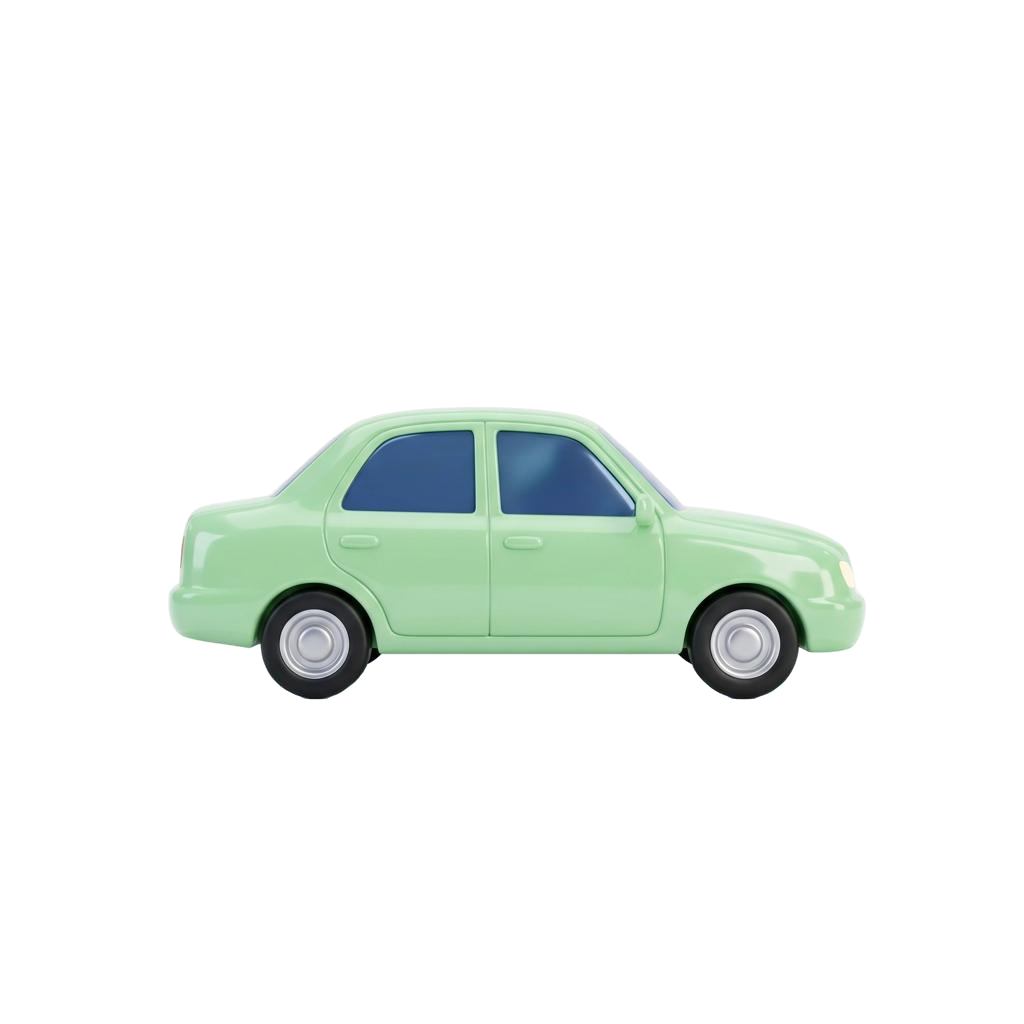
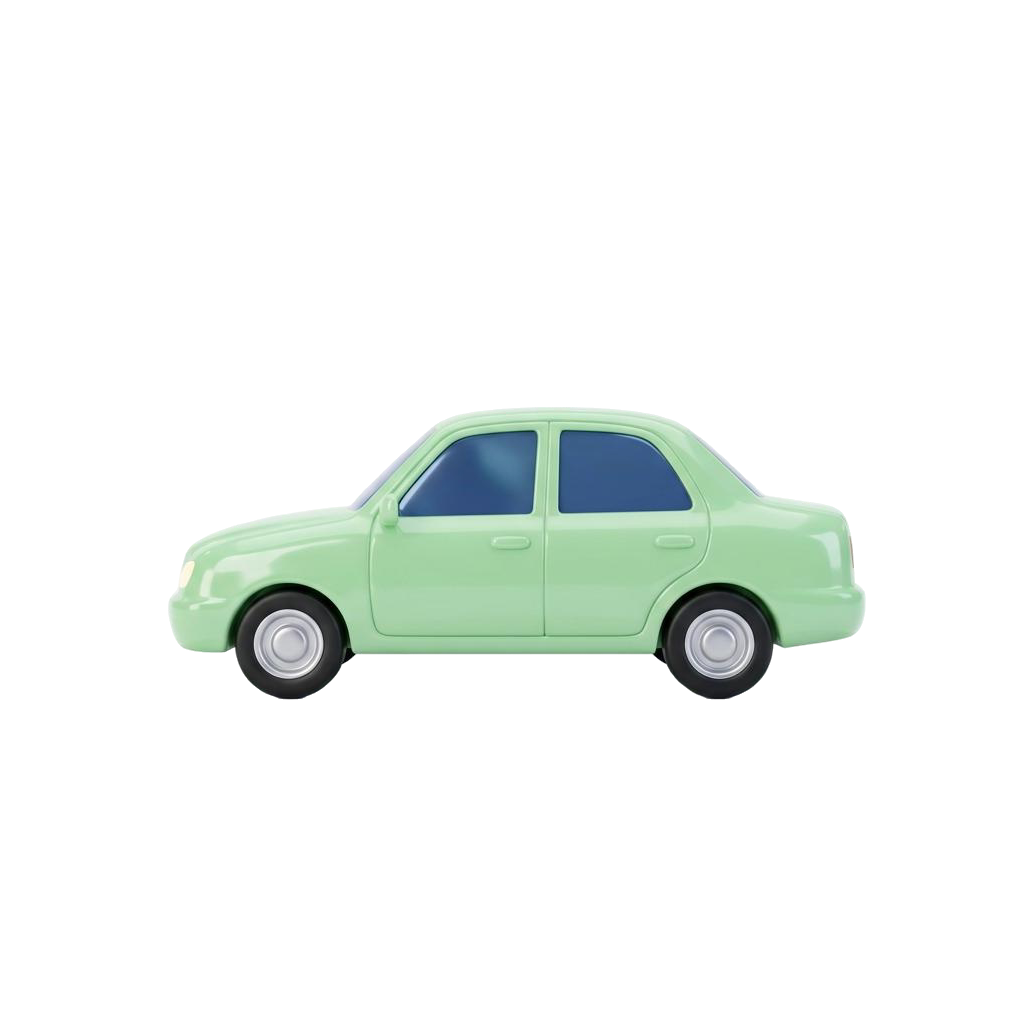
images change for first car and ev and appreciated page changes

Changed region(s): [[0.1562, 0.375, 0.8438, 0.6875]]

diff --git a/app/appreciated/page.tsx b/app/appreciated/page.tsx
@@ -1,5 +1,3 @@
-import AppreciatedForm from './AppreciatedForm';
-
 export const metadata = {
   title: 'We Appreciate Your Enquiry | LendaLink',
   description: 'Thank you for your enquiry with LendaLink Finance.',
@@ -35,65 +33,7 @@ export default function AppreciatedPage() {
             </p>
           </div>
 
-          {/* Info box */}
-          <div className="bg-emerald-50 border border-emerald-100 rounded-xl px-5 py-4 mb-6">
-            <p className="text-sm font-semibold text-emerald-800 mb-2">This may change in the future if:</p>
-            <ul className="space-y-1.5">
-              {[
-                'Your employment situation changes',
-                'Your monthly income grows above $3,000',
-                'You become a permanent resident or citizen',
-                'Your credit defaults are resolved or paid off',
-              ].map(item => (
-                <li key={item} className="flex items-start gap-2 text-sm text-emerald-700">
-                  <span className="text-emerald-400 mt-0.5 shrink-0">✓</span>
-                  {item}
-                </li>
-              ))}
-            </ul>
-          </div>
-
-          {/* Alternative options */}
-          <p className="text-sm font-semibold text-gray-700 mb-3">In the meantime, you may want to explore:</p>
-          <div className="grid grid-cols-1 sm:grid-cols-3 gap-3 mb-8">
-            {[
-              { icon: '🐷', title: 'Build Your Savings', desc: 'A savings plan can strengthen your future application' },
-              { icon: '📈', title: 'Improve Your Credit', desc: 'Free credit report at creditsavvy.com.au' },
-              { icon: '🙋', title: 'Speak to a Counsellor', desc: 'Free financial counselling at moneysmart.gov.au' },
-            ].map(card => (
-              <div key={card.title} className="bg-gray-50 rounded-xl p-4 text-center">
-                <span className="text-2xl block mb-2">{card.icon}</span>
-                <p className="text-xs font-bold text-gray-800 mb-1">{card.title}</p>
-                <p className="text-[11px] text-gray-500 leading-snug">{card.desc}</p>
-              </div>
-            ))}
-          </div>
-
-          {/* Leave details form */}
-          <AppreciatedForm />
-
-          {/* Contact */}
-          <div className="text-center mt-6 mb-2">
-            <p className="text-sm text-gray-500 mb-3">Have questions? Our team is happy to help.</p>
-            <div className="flex flex-col sm:flex-row gap-3 justify-center">
-              <a href="tel:[phone redacted]"
-                className="inline-flex items-center justify-center gap-2 text-sm font-semibold text-emerald-600 hover:text-emerald-700 transition-colors">
-                <span>📞</span> (02) 5118 9201
-              </a>
-              <a href="mailto:[email redacted]"
-                className="inline-flex items-center justify-center gap-2 text-sm font-semibold text-emerald-600 hover:text-emerald-700 transition-colors">
-                <span>✉️</span> [email redacted]
-              </a>
-            </div>
-          </div>
-
-          {/* Back button */}
-          <a
-            href="https://lendalink.com.au"
-            className="flex items-center justify-center w-full rounded-xl border border-gray-200 text-gray-500 font-semibold text-sm py-3 mt-4 hover:bg-gray-50 transition-colors"
-          >
-            Back to Home
-          </a>
+        
         </div>
       </div>
 

diff --git a/app/api/submit-apply/route.ts b/app/api/submit-apply/route.ts
@@ -4,7 +4,12 @@ import { supabase } from '@/lib/supabase';
 export async function POST(req: NextRequest) {
   const body = await req.json();
 
-  const { error } = await supabase.from('apply_submissions').insert({
+  const ip =
+    req.headers.get('x-forwarded-for')?.split(',')[0]?.trim() ??
+    req.headers.get('x-real-ip') ??
+    'unknown';
+
+  const row = {
     vehicle_type:      body.vehicleType,
     vehicle_condition: body.vehicleCondition,
     purchase_price:    body.purchasePrice,
@@ -14,16 +19,43 @@ export async function POST(req: NextRequest) {
     annual_income:     body.annualIncome,
     residency:         body.residency,
     credit_history:    body.creditHistory,
+    has_defaults:      body.hasDefaults,
+    in_payment_plan:   body.inPaymentPlan,
     state:             body.state,
     full_name:         body.fullName,
     mobile:            body.mobile,
     email:             body.email,
-    is_low_quality:    body.isLowQualityLead,
-  });
+    ip,
+  };
 
-  if (error) {
-    console.error('apply_submissions insert error:', error.message);
+  const webhookPayload = {
+    ...row,
+    submitted_at: new Date().toISOString(),
+    source: 'car-loan-calculator',
+  };
+
+  // Run Supabase insert and webhook in parallel
+  const [dbResult, webhookResult] = await Promise.allSettled([
+    supabase.from('apply_submissions').insert(row),
+    process.env.WEBHOOK_URL
+      ? fetch(process.env.WEBHOOK_URL, {
+          method: 'POST',
+          headers: { 'Content-Type': 'application/json' },
+          body: JSON.stringify(webhookPayload),
+        })
+      : Promise.resolve(null),
+  ]);
+
+  if (dbResult.status === 'rejected' || (dbResult.status === 'fulfilled' && dbResult.value.error)) {
+    const msg = dbResult.status === 'rejected'
+      ? dbResult.reason
+      : dbResult.value.error?.message;
+    console.error('apply_submissions insert error:', msg);
     return NextResponse.json({ ok: false }, { status: 500 });
+  }
+
+  if (webhookResult.status === 'rejected') {
+    console.error('webhook delivery failed:', webhookResult.reason);
   }
 
   return NextResponse.json({ ok: true });